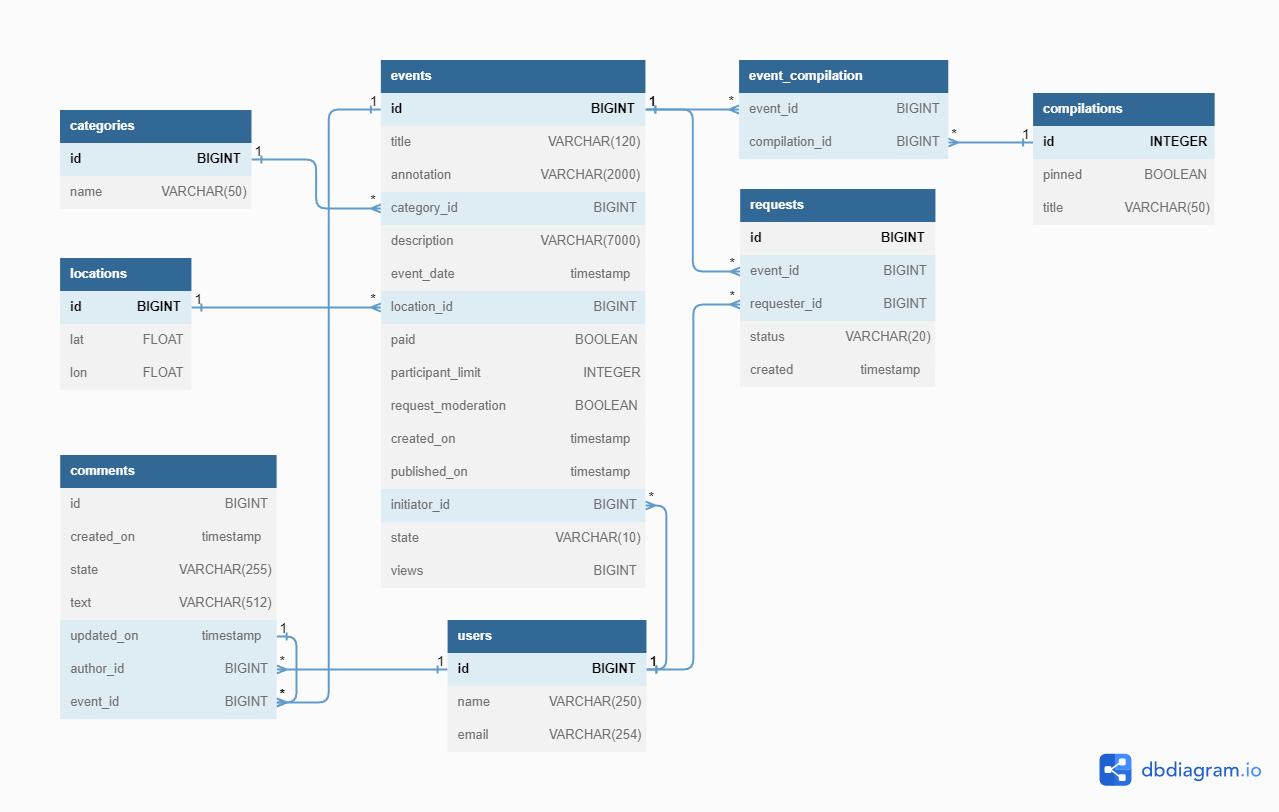
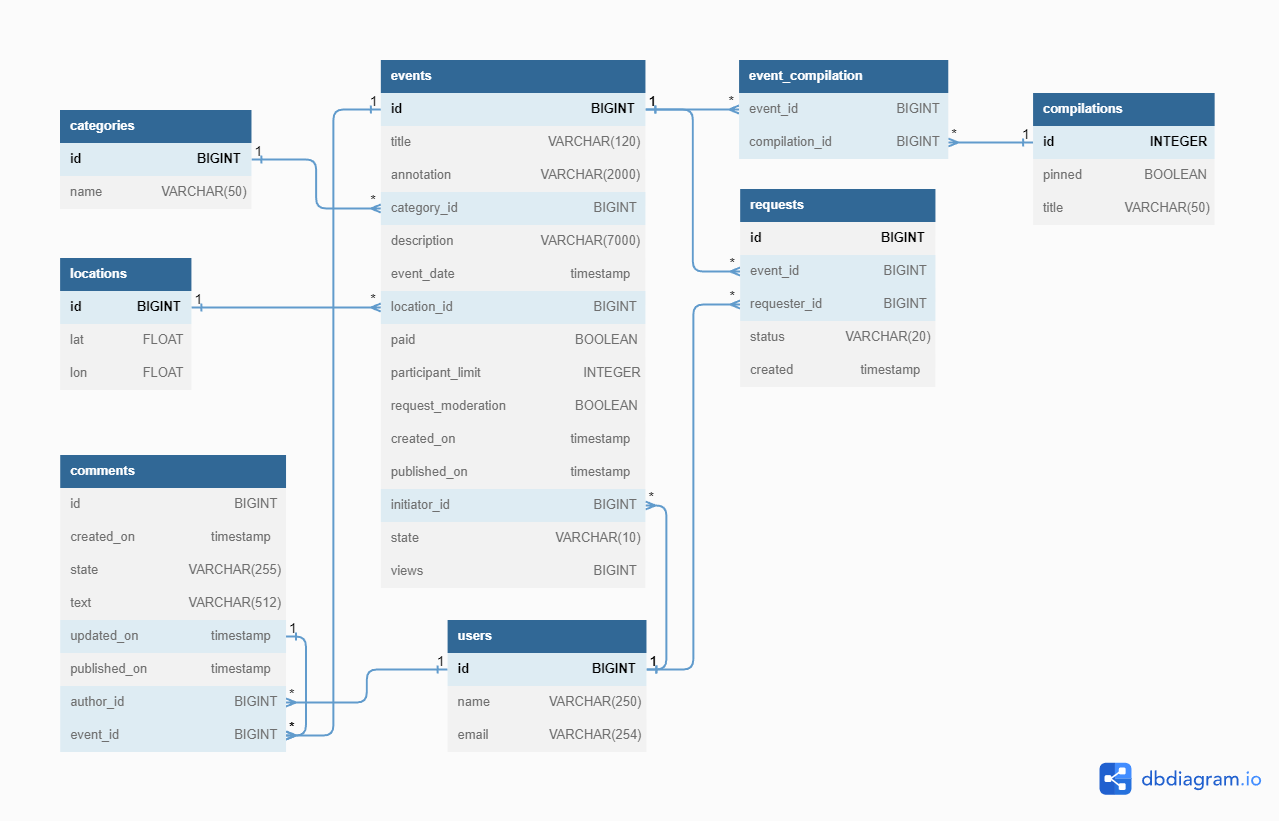
Commit №18.4: fix: -Fix after 1st review.

diff --git a/main-service/src/main/java/ru/practicum/comment/dto/CommentMapper.java b/main-service/src/main/java/ru/practicum/comment/dto/CommentMapper.java
@@ -1,5 +1,7 @@
 package ru.practicum.comment.dto;
 
+import lombok.AccessLevel;
+import lombok.NoArgsConstructor;
 import ru.practicum.comment.Comment;
 
 import java.time.format.DateTimeFormatter;
@@ -7,11 +9,9 @@ import java.time.format.DateTimeFormatter;
 import static ru.practicum.event.dto.EventMapper.toEventShortDto;
 import static ru.practicum.user.dto.UserMapper.toUserShortDto;
 
+@NoArgsConstructor(access = AccessLevel.PRIVATE)
 public class CommentMapper {
     private static final DateTimeFormatter formatter = DateTimeFormatter.ofPattern("yyyy-MM-dd HH:mm:ss");
-
-    private CommentMapper() {
-    }
 
     public static Comment toComment(NewCommentDto newCommentDto) {
         return Comment.builder()
@@ -28,6 +28,7 @@ public class CommentMapper {
                 .state(comment.getState().toString())
                 .createdOn(comment.getCreatedOn().format(formatter))
                 .updatedOn(comment.getUpdatedOn() != null ? comment.getUpdatedOn().format(formatter) : null)
+                .publishedOn(comment.getUpdatedOn() != null ? comment.getPublishedOn().format(formatter) : null)
                 .build();
     }
 }

diff --git a/main-service/src/main/java/ru/practicum/comment/CommentServiceImpl.java b/main-service/src/main/java/ru/practicum/comment/CommentServiceImpl.java
@@ -42,7 +42,6 @@ public class CommentServiceImpl implements CommentService {
         comment.setEvent(event);
         comment.setAuthor(user);
         comment.setState(CommentState.PENDING);
-        comment.setCreatedOn(LocalDateTime.now());
         return toCommentResponseDto(commentRepository.save(comment));
     }
 
@@ -75,7 +74,6 @@ public class CommentServiceImpl implements CommentService {
             throw new ForbiddenException("Can not update confirmed comment.");
         }
         comment.setText(newCommentDto.getText());
-        comment.setUpdatedOn(LocalDateTime.now());
         comment.setState(CommentState.PENDING);
         return toCommentResponseDto(commentRepository.save(comment));
     }
@@ -105,7 +103,7 @@ public class CommentServiceImpl implements CommentService {
         } else {
             comment.setState(CommentState.REJECTED);
         }
-        comment.setUpdatedOn(LocalDateTime.now());
+        comment.setPublishedOn(LocalDateTime.now());
         return toCommentResponseDto(commentRepository.save(comment));
     }
 }

diff --git a/main-service/src/main/java/ru/practicum/comment/CommentController.java b/main-service/src/main/java/ru/practicum/comment/CommentController.java
@@ -17,10 +17,12 @@ import ru.practicum.comment.dto.NewCommentDto;
 
 import javax.validation.Valid;
 import javax.validation.constraints.Positive;
+import javax.validation.constraints.PositiveOrZero;
 import java.util.List;
 
 @RestController
 @RequiredArgsConstructor
+@Validated
 public class CommentController {
     private final CommentService commentService;
 
@@ -34,8 +36,8 @@ public class CommentController {
 
     @GetMapping("/events/{eventId}/comments")
     public List<CommentResponseDto> getEventComments(@PathVariable @Valid @Positive Long eventId,
-                                                     @RequestParam(defaultValue = "0") int from,
-                                                     @RequestParam(defaultValue = "10") int size) {
+                                                     @RequestParam(defaultValue = "0") @PositiveOrZero int from,
+                                                     @RequestParam(defaultValue = "10") @Positive int size) {
         return commentService.getEventComments(eventId, from, size);
     }
 

diff --git a/main-service/src/main/java/ru/practicum/event/dto/EventMapper.java b/main-service/src/main/java/ru/practicum/event/dto/EventMapper.java
@@ -1,5 +1,7 @@
 package ru.practicum.event.dto;
 
+import lombok.AccessLevel;
+import lombok.NoArgsConstructor;
 import ru.practicum.event.Event;
 import ru.practicum.request.ParticipationRequest;
 import ru.practicum.request.ParticipationRequestStatus;
@@ -13,11 +15,10 @@ import static ru.practicum.location.dto.LocationMapper.toLocation;
 import static ru.practicum.location.dto.LocationMapper.toLocationDto;
 import static ru.practicum.user.dto.UserMapper.toUserShortDto;
 
+@NoArgsConstructor(access = AccessLevel.PRIVATE)
 public class EventMapper {
     private static final DateTimeFormatter formatter = DateTimeFormatter.ofPattern("yyyy-MM-dd HH:mm:ss");
 
-    private EventMapper() {
-    }
 
     public static Event toEvent(NewEventDto newEventDto) {
         return Event.builder()

diff --git a/main-service/src/main/java/ru/practicum/comment/Comment.java b/main-service/src/main/java/ru/practicum/comment/Comment.java
@@ -6,6 +6,8 @@ import lombok.Getter;
 import lombok.RequiredArgsConstructor;
 import lombok.Setter;
 import lombok.ToString;
+import org.hibernate.annotations.CreationTimestamp;
+import org.hibernate.annotations.UpdateTimestamp;
 import ru.practicum.event.Event;
 import ru.practicum.user.User;
 
@@ -49,9 +51,14 @@ public class Comment {
     @Enumerated(EnumType.STRING)
     private CommentState state;
 
+    @CreationTimestamp
     @Column(name = "created_on")
     private LocalDateTime createdOn;
 
+    @UpdateTimestamp
     @Column(name = "updated_on")
     private LocalDateTime updatedOn;
+
+    @Column(name = "published_on")
+    private LocalDateTime publishedOn;
 }

diff --git a/main-service/src/main/java/ru/practicum/compilation/dto/CompilationMapper.java b/main-service/src/main/java/ru/practicum/compilation/dto/CompilationMapper.java
@@ -1,15 +1,15 @@
 package ru.practicum.compilation.dto;
 
+import lombok.AccessLevel;
+import lombok.NoArgsConstructor;
 import ru.practicum.compilation.Compilation;
 import ru.practicum.event.dto.EventMapper;
 
 import java.util.Collections;
 import java.util.stream.Collectors;
 
+@NoArgsConstructor(access = AccessLevel.PRIVATE)
 public class CompilationMapper {
-
-    private CompilationMapper() {
-    }
 
     public static CompilationDto toCompilationDto(Compilation compilation) {
         return CompilationDto.builder()

diff --git a/main-service/src/main/java/ru/practicum/request/dto/ParticipationRequestMapper.java b/main-service/src/main/java/ru/practicum/request/dto/ParticipationRequestMapper.java
@@ -1,13 +1,13 @@
 package ru.practicum.request.dto;
 
+import lombok.AccessLevel;
+import lombok.NoArgsConstructor;
 import ru.practicum.request.ParticipationRequest;
 
 import java.time.format.DateTimeFormatter;
 
+@NoArgsConstructor(access = AccessLevel.PRIVATE)
 public class ParticipationRequestMapper {
-
-    private ParticipationRequestMapper() {
-    }
 
     public static ParticipationRequestDto toParticipationRequestDto(ParticipationRequest request) {
         return ParticipationRequestDto.builder()

diff --git a/stat-service/stat-server/src/main/java/ru/practicum/model/HitMapper.java b/stat-service/stat-server/src/main/java/ru/practicum/model/HitMapper.java
@@ -1,14 +1,14 @@
 package ru.practicum.model;
 
+import lombok.AccessLevel;
+import lombok.NoArgsConstructor;
 import ru.practicum.HitDto;
 
 import java.time.LocalDateTime;
 import java.time.format.DateTimeFormatter;
 
+@NoArgsConstructor(access = AccessLevel.PRIVATE)
 public class HitMapper {
-
-    private HitMapper() {
-    }
 
     public static Hit toHit(HitDto hitDto) {
         return Hit.builder()

diff --git a/main-service/src/main/java/ru/practicum/user/dto/UserMapper.java b/main-service/src/main/java/ru/practicum/user/dto/UserMapper.java
@@ -1,14 +1,14 @@
 package ru.practicum.user.dto;
 
+import lombok.AccessLevel;
+import lombok.NoArgsConstructor;
 import ru.practicum.user.User;
 
 import java.util.ArrayList;
 import java.util.List;
 
+@NoArgsConstructor(access = AccessLevel.PRIVATE)
 public class UserMapper {
-
-    private UserMapper() {
-    }
 
     public static UserDto toUserDto(User user) {
         return UserDto.builder()

diff --git a/main-service/src/main/java/ru/practicum/category/dto/CategoryMapper.java b/main-service/src/main/java/ru/practicum/category/dto/CategoryMapper.java
@@ -1,11 +1,11 @@
 package ru.practicum.category.dto;
 
+import lombok.AccessLevel;
+import lombok.NoArgsConstructor;
 import ru.practicum.category.Category;
 
+@NoArgsConstructor(access = AccessLevel.PRIVATE)
 public class CategoryMapper {
-
-    private CategoryMapper() {
-    }
 
     public static CategoryDto toCategoryDto(Category category) {
         return CategoryDto.builder()

diff --git a/main-service/src/main/java/ru/practicum/location/dto/LocationMapper.java b/main-service/src/main/java/ru/practicum/location/dto/LocationMapper.java
@@ -1,11 +1,11 @@
 package ru.practicum.location.dto;
 
+import lombok.AccessLevel;
+import lombok.NoArgsConstructor;
 import ru.practicum.location.Location;
 
+@NoArgsConstructor(access = AccessLevel.PRIVATE)
 public class LocationMapper {
-
-    private LocationMapper() {
-    }
 
     public static LocationDto toLocationDto(Location location) {
         return LocationDto.builder()

diff --git a/main-service/src/main/java/ru/practicum/comment/dto/CommentResponseDto.java b/main-service/src/main/java/ru/practicum/comment/dto/CommentResponseDto.java
@@ -19,4 +19,5 @@ public class CommentResponseDto {
     private String state;
     private String createdOn;
     private String updatedOn;
+    private String publishedOn;
 }
